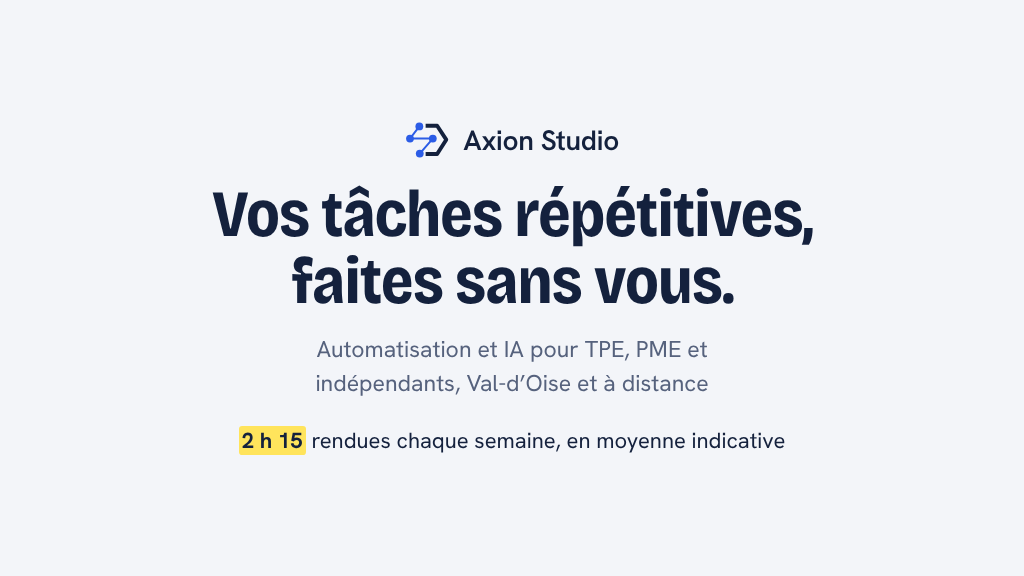
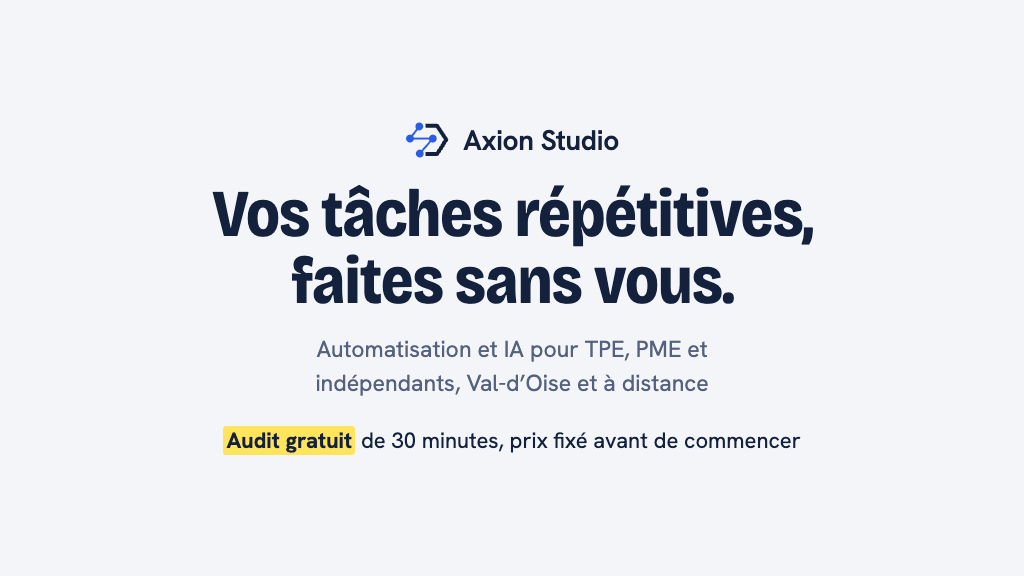
Bannieres regenerees : reponse sous 24 h, 2 h 15 presente comme un exemple, polices du site
- generate.mjs : polices de src/assets/fonts (les paquets @fontsource-variable ont ete retires), repli sur Google Chrome si Chromium de Playwright est absent
- carte « Exemple de semaine : temps rendu » ; couverture Google sans moyenne simulee (audit gratuit a la place)
- 12 PNG refaits (taille exacte et @2x), README a jour

diff --git a/marketing/banners/google-publication-audit-1200x900.html b/marketing/banners/google-publication-audit-1200x900.html
@@ -1,6 +1,6 @@
 <!doctype html><html lang="fr"><head><meta charset="utf-8"><style>
-@font-face{font-family:BG;src:url(file:///home/user/axion-studio/node_modules/@fontsource-variable/bricolage-grotesque/files/bricolage-grotesque-latin-wdth-normal.woff2);font-weight:200 800;font-stretch:75% 100%}
-@font-face{font-family:HG;src:url(file:///home/user/axion-studio/node_modules/@fontsource-variable/hanken-grotesk/files/hanken-grotesk-latin-wght-normal.woff2);font-weight:100 900}
+@font-face{font-family:BG;src:url(file:///Users/arthur./Desktop/axion-studio/src/assets/fonts/bricolage-titres-latin.woff2);font-weight:500 800;font-stretch:85%}
+@font-face{font-family:HG;src:url(file:///Users/arthur./Desktop/axion-studio/src/assets/fonts/hanken-texte-latin.woff2);font-weight:400 700}
 *{box-sizing:border-box;margin:0}
 html,body{width:1200px;height:900px;overflow:hidden}
 body{font-family:HG,Arial,sans-serif;color:#14213d;background:#f3f5f9;position:relative}
@@ -22,10 +22,10 @@ body{font-family:HG,Arial,sans-serif;color:#14213d;background:#f3f5f9;position:r
         <div class="brand" style="font-size:28px"><svg viewBox="0 0 210 175" height="38" aria-hidden="true"><g stroke="#2b5ce6" stroke-width="9" stroke-linecap="round"><line x1="66" y1="25" x2="23" y2="81"/><line x1="23" y1="81" x2="128" y2="81"/><line x1="128" y1="81" x2="68" y2="150"/></g><g fill="#2b5ce6"><circle cx="66" cy="25" r="18"/><circle cx="23" cy="81" r="18"/><circle cx="128" cy="81" r="18"/><circle cx="68" cy="150" r="18"/></g><path d="M95 22H148L190 86L148 152H95" fill="none" stroke="#14213d" stroke-width="18" stroke-linejoin="round"/></svg>Axion Studio</div>
         <p class="h" style="font-size:96px;margin-top:40px">Audit <span class="mark">gratuit</span> de 30 minutes</p>
         <p class="lead" style="font-size:28px;margin-top:28px">On repère ensemble les tâches répétitives qui vous coûtent du temps, et ce qui peut être automatisé.</p>
-        <p style="font-size:24px;margin-top:30px;line-height:1.7">Sans engagement<br>Projets dès 150 €<br>Réponse sous 48 h ouvrées</p>
+        <p style="font-size:24px;margin-top:30px;line-height:1.7">Sans engagement<br>Projets dès 150 €<br>Réponse sous 24 h ouvrées</p>
       </div>
       <div class="abs" style="right:80px;top:200px"><div class="card" style="font-size:17px;width:440px;padding:1.1em 1.2em 1.2em">
-  <p class="muted" style="font-size:.85em">Temps rendu chaque semaine</p>
+  <p class="muted" style="font-size:.85em">Exemple de semaine : temps rendu</p>
   <p class="h" style="font-size:3.1em;margin-top:.12em;line-height:1.1"><span class="mark">2 h 15</span></p>
   <div style="display:grid;grid-template-columns:repeat(5,1fr);gap:.4em;margin-top:.9em;align-items:start">
     <div style="display:grid;gap:.4em">

diff --git a/marketing/banners/linkedin-profil-1584x396.html b/marketing/banners/linkedin-profil-1584x396.html
@@ -1,6 +1,6 @@
 <!doctype html><html lang="fr"><head><meta charset="utf-8"><style>
-@font-face{font-family:BG;src:url(file:///home/user/axion-studio/node_modules/@fontsource-variable/bricolage-grotesque/files/bricolage-grotesque-latin-wdth-normal.woff2);font-weight:200 800;font-stretch:75% 100%}
-@font-face{font-family:HG;src:url(file:///home/user/axion-studio/node_modules/@fontsource-variable/hanken-grotesk/files/hanken-grotesk-latin-wght-normal.woff2);font-weight:100 900}
+@font-face{font-family:BG;src:url(file:///Users/arthur./Desktop/axion-studio/src/assets/fonts/bricolage-titres-latin.woff2);font-weight:500 800;font-stretch:85%}
+@font-face{font-family:HG;src:url(file:///Users/arthur./Desktop/axion-studio/src/assets/fonts/hanken-texte-latin.woff2);font-weight:400 700}
 *{box-sizing:border-box;margin:0}
 html,body{width:1584px;height:396px;overflow:hidden}
 body{font-family:HG,Arial,sans-serif;color:#14213d;background:#f3f5f9;position:relative}
@@ -24,7 +24,7 @@ body{font-family:HG,Arial,sans-serif;color:#14213d;background:#f3f5f9;position:r
         <div class="brand" style="font-size:26px;margin-top:30px"><svg viewBox="0 0 210 175" height="34" aria-hidden="true"><g stroke="#2b5ce6" stroke-width="9" stroke-linecap="round"><line x1="66" y1="25" x2="23" y2="81"/><line x1="23" y1="81" x2="128" y2="81"/><line x1="128" y1="81" x2="68" y2="150"/></g><g fill="#2b5ce6"><circle cx="66" cy="25" r="18"/><circle cx="23" cy="81" r="18"/><circle cx="128" cy="81" r="18"/><circle cx="68" cy="150" r="18"/></g><path d="M95 22H148L190 86L148 152H95" fill="none" stroke="#14213d" stroke-width="18" stroke-linejoin="round"/></svg>Axion Studio <span class="muted" style="font-weight:400;margin-left:.4em">axionstudio.fr</span></div>
       </div>
       <div class="abs" style="right:50px;top:50px"><div class="card" style="font-size:15px;width:400px;padding:1.1em 1.2em 1.2em">
-  <p class="muted" style="font-size:.85em">Temps rendu chaque semaine</p>
+  <p class="muted" style="font-size:.85em">Exemple de semaine : temps rendu</p>
   <p class="h" style="font-size:3.1em;margin-top:.12em;line-height:1.1"><span class="mark">2 h 15</span></p>
   <div style="display:grid;grid-template-columns:repeat(5,1fr);gap:.4em;margin-top:.9em;align-items:start">
     <div style="display:grid;gap:.4em">

diff --git a/marketing/banners/google-couverture-1024x576.html b/marketing/banners/google-couverture-1024x576.html
@@ -1,6 +1,6 @@
 <!doctype html><html lang="fr"><head><meta charset="utf-8"><style>
-@font-face{font-family:BG;src:url(file:///home/user/axion-studio/node_modules/@fontsource-variable/bricolage-grotesque/files/bricolage-grotesque-latin-wdth-normal.woff2);font-weight:200 800;font-stretch:75% 100%}
-@font-face{font-family:HG;src:url(file:///home/user/axion-studio/node_modules/@fontsource-variable/hanken-grotesk/files/hanken-grotesk-latin-wght-normal.woff2);font-weight:100 900}
+@font-face{font-family:BG;src:url(file:///Users/arthur./Desktop/axion-studio/src/assets/fonts/bricolage-titres-latin.woff2);font-weight:500 800;font-stretch:85%}
+@font-face{font-family:HG;src:url(file:///Users/arthur./Desktop/axion-studio/src/assets/fonts/hanken-texte-latin.woff2);font-weight:400 700}
 *{box-sizing:border-box;margin:0}
 html,body{width:1024px;height:576px;overflow:hidden}
 body{font-family:HG,Arial,sans-serif;color:#14213d;background:#f3f5f9;position:relative}
@@ -22,5 +22,5 @@ body{font-family:HG,Arial,sans-serif;color:#14213d;background:#f3f5f9;position:r
         <div class="brand" style="font-size:28px"><svg viewBox="0 0 210 175" height="38" aria-hidden="true"><g stroke="#2b5ce6" stroke-width="9" stroke-linecap="round"><line x1="66" y1="25" x2="23" y2="81"/><line x1="23" y1="81" x2="128" y2="81"/><line x1="128" y1="81" x2="68" y2="150"/></g><g fill="#2b5ce6"><circle cx="66" cy="25" r="18"/><circle cx="23" cy="81" r="18"/><circle cx="128" cy="81" r="18"/><circle cx="68" cy="150" r="18"/></g><path d="M95 22H148L190 86L148 152H95" fill="none" stroke="#14213d" stroke-width="18" stroke-linejoin="round"/></svg>Axion Studio</div>
         <p class="h" style="font-size:66px;margin-top:22px">Vos tâches répétitives, faites sans vous.</p>
         <p class="lead" style="font-size:23px;margin-top:18px;text-wrap:balance">Automatisation et IA pour TPE, PME et indépendants, Val-d’Oise et à distance</p>
-        <p style="font-size:22px;margin-top:26px"><span class="mark" style="font-weight:700">2 h 15</span> rendues chaque semaine, en moyenne indicative</p>
+        <p style="font-size:22px;margin-top:26px"><span class="mark" style="font-weight:700">Audit gratuit</span> de 30 minutes, prix fixé avant de commencer</p>
       </div></body></html>

diff --git a/marketing/banners/linkedin-page-1128x191.html b/marketing/banners/linkedin-page-1128x191.html
@@ -1,6 +1,6 @@
 <!doctype html><html lang="fr"><head><meta charset="utf-8"><style>
-@font-face{font-family:BG;src:url(file:///home/user/axion-studio/node_modules/@fontsource-variable/bricolage-grotesque/files/bricolage-grotesque-latin-wdth-normal.woff2);font-weight:200 800;font-stretch:75% 100%}
-@font-face{font-family:HG;src:url(file:///home/user/axion-studio/node_modules/@fontsource-variable/hanken-grotesk/files/hanken-grotesk-latin-wght-normal.woff2);font-weight:100 900}
+@font-face{font-family:BG;src:url(file:///Users/arthur./Desktop/axion-studio/src/assets/fonts/bricolage-titres-latin.woff2);font-weight:500 800;font-stretch:85%}
+@font-face{font-family:HG;src:url(file:///Users/arthur./Desktop/axion-studio/src/assets/fonts/hanken-texte-latin.woff2);font-weight:400 700}
 *{box-sizing:border-box;margin:0}
 html,body{width:1128px;height:191px;overflow:hidden}
 body{font-family:HG,Arial,sans-serif;color:#14213d;background:#f3f5f9;position:relative}

diff --git a/marketing/banners/linkedin-publication-article-1200x627.html b/marketing/banners/linkedin-publication-article-1200x627.html
@@ -1,6 +1,6 @@
 <!doctype html><html lang="fr"><head><meta charset="utf-8"><style>
-@font-face{font-family:BG;src:url(file:///home/user/axion-studio/node_modules/@fontsource-variable/bricolage-grotesque/files/bricolage-grotesque-latin-wdth-normal.woff2);font-weight:200 800;font-stretch:75% 100%}
-@font-face{font-family:HG;src:url(file:///home/user/axion-studio/node_modules/@fontsource-variable/hanken-grotesk/files/hanken-grotesk-latin-wght-normal.woff2);font-weight:100 900}
+@font-face{font-family:BG;src:url(file:///Users/arthur./Desktop/axion-studio/src/assets/fonts/bricolage-titres-latin.woff2);font-weight:500 800;font-stretch:85%}
+@font-face{font-family:HG;src:url(file:///Users/arthur./Desktop/axion-studio/src/assets/fonts/hanken-texte-latin.woff2);font-weight:400 700}
 *{box-sizing:border-box;margin:0}
 html,body{width:1200px;height:627px;overflow:hidden}
 body{font-family:HG,Arial,sans-serif;color:#14213d;background:#f3f5f9;position:relative}

diff --git a/marketing/banners/README.md b/marketing/banners/README.md
@@ -1,6 +1,6 @@
 # Bannières Axion Studio
 
-Style « le temps rendu » (charte v2, `docs/brand-guidelines.md`) : fond gris bleuté, polices Bricolage Grotesque et Hanken Grotesk, surligneur pour le temps gagné, semaine type hachurée. Régénérer : `node marketing/banners/generate.mjs`.
+Style « le temps rendu » (charte v2, `docs/brand-guidelines.md`) : fond gris bleuté, polices Bricolage Grotesque et Hanken Grotesk, surligneur pour le temps gagné, semaine type hachurée. Régénérer : `node marketing/banners/generate.mjs` (Playwright requis, voir plus bas). Les polices viennent de `src/assets/fonts/`, les mêmes que le site.
 Chaque visuel existe en taille exacte et en `@2x` (plus net sur les écrans haute définition, même proportion).
 
 | Fichier | Où l'utiliser |
@@ -15,16 +15,15 @@ Chaque visuel existe en taille exacte et en `@2x` (plus net sur les écrans haut
 Zones sûres respectées : sur le profil LinkedIn, la photo recouvre le coin inférieur gauche (rien d'important à
 gauche de 440 px) ; la couverture Google est centrée car Google la recadre selon l'écran.
 
-## À savoir avant de publier une bannière (13 nov. 2026)
+## À savoir avant de publier une bannière (16 nov. 2026)
 
-- **Les PNG sont à régénérer.** `generate.mjs` annonçait « Réponse sous 48 h ouvrées » alors que le site annonce
-  24 heures ouvrées (`company.delai`). Le script est corrigé, mais les PNG datent d'avant : ils affichent encore 48 h.
-  Pour les refaire : `npm i -D playwright && npx playwright install chromium`, puis `node marketing/banners/generate.mjs`.
-  En attendant, ne publiez pas `google-publication-audit-1200x900.png`.
-- **« Temps rendu chaque semaine : 2 h 15 »** est le total par défaut de la liste interactive de l'accueil
-  (3 tâches cochées : 45 + 30 + 60 minutes). C'est une simulation, pas un résultat mesuré chez un client.
-  Sur le site, le visiteur coche lui-même ses tâches ; sur une bannière isolée, le chiffre peut se lire comme une promesse.
-  À remplacer par un vrai chiffre dès qu'un client en aura donné un, avec son accord.
+- **PNG régénérés le 16 nov. 2026** : la publication d'audit affiche bien « Réponse sous 24 h ouvrées », comme le site.
+  Pour les refaire, Playwright suffit, sans l'ajouter au site : dans un dossier à part, `npm i playwright`, puis
+  `NODE_PATH=<ce dossier>/node_modules node marketing/banners/generate.mjs` depuis la racine du dépôt. Le script prend
+  Chromium de Playwright s'il est installé (`npx playwright install chromium`), sinon Google Chrome.
+- **« 2 h 15 »** est le total par défaut de la liste interactive de l'accueil (45 + 30 + 60 minutes) : une simulation,
+  pas un résultat mesuré chez un client. La carte est donc titrée « Exemple de semaine : temps rendu », et la couverture
+  Google, qui disait « en moyenne indicative », affiche à la place l'audit gratuit. À remplacer par un vrai chiffre dès
+  qu'un client en aura donné un, avec son accord.
 - **`linkedin-publication-article-1200x627.png`** porte le titre de l'article « Combien coûte l'automatisation » :
   il ne convient pas à un autre sujet. Il manque un visuel 1200x627 par article.
-
